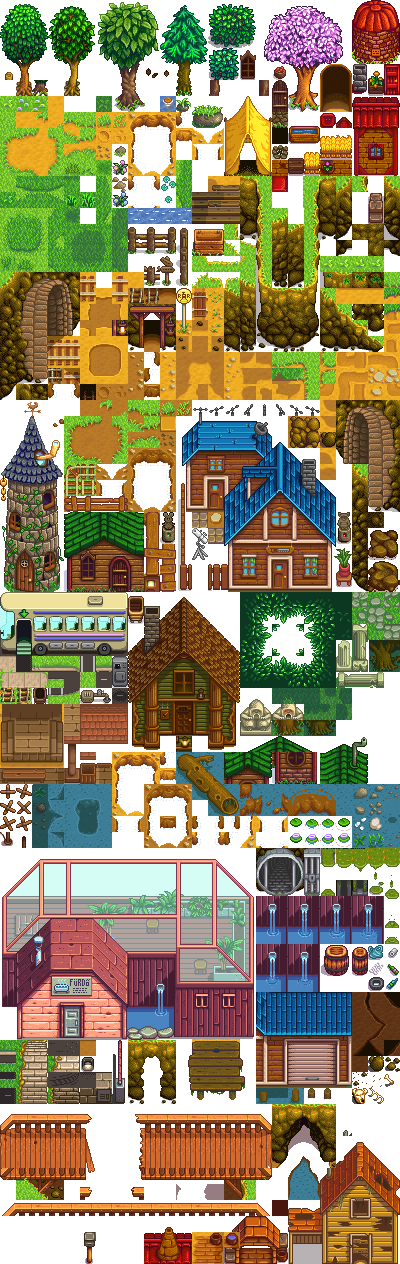
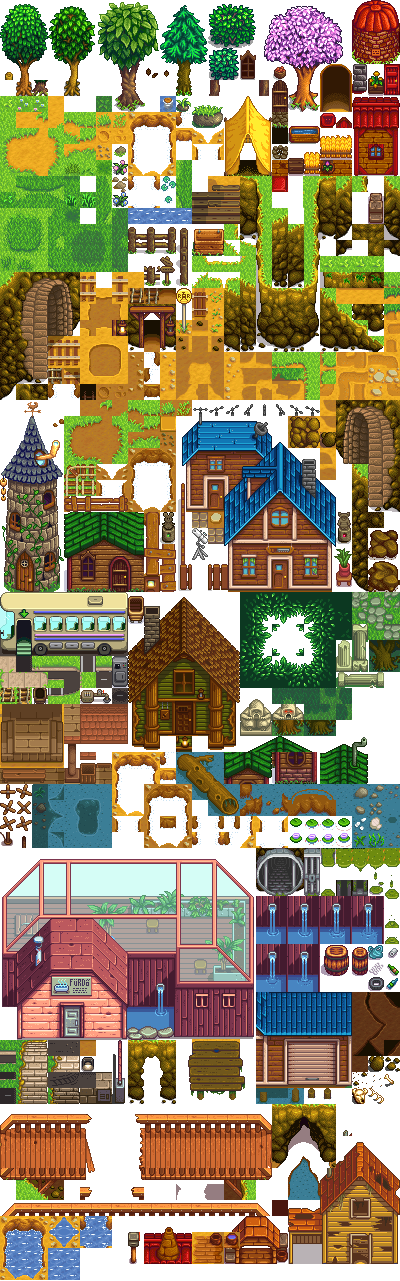
Ajout de l'auto tile de l'eau + ajout sprite

diff --git a/IUT-Valley/src/IHM/Vue/Cases/VueCaseEau.java b/IUT-Valley/src/IHM/Vue/Cases/VueCaseEau.java
@@ -5,8 +5,9 @@
  */
 package IHM.Vue.Cases;
 
+import Metier.Carte.Carte;
 import Metier.Carte.Cases.CaseEau;
-import Metier.Carte.Cases.CaseHerbe;
+import Metier.Carte.Direction;
 import javafx.geometry.Rectangle2D;
 import javafx.scene.image.ImageView;
 
@@ -18,9 +19,43 @@ public class VueCaseEau extends CaseVue{
     
     public VueCaseEau(CaseEau c,ImageView sprite){
         super();
-        sprite.setViewport(new Rectangle2D(96,832,14,14)); 
+        sprite.setViewport(new Rectangle2D(49,1249,16,16)); 
         /* if(Carte.getCarte().getCaseProche(c, Direction.Gauche).getCaseType().equals("herbe"))
             sprite.setViewport(new Rectangle2D(0,144,14,14)); ;*/
+        
+        
+        //terre angle haut droit
+        if((c.getVoisine(Direction.Gauche) != null) && (c.getVoisine(Direction.Gauche).getCaseType().equals("eau")) && (c.getVoisine(Direction.Haut) != null) && (c.getVoisine(Direction.Haut).getCaseType().equals("eau")) && (c.getVoisine(Direction.HautGauche) != null) && (c.getVoisine(Direction.HautGauche).getCaseType().equals("terre"))){
+             sprite.setViewport(new Rectangle2D(81,1217,16,16)); 
+        }      
+        //terre angle haut gauche
+        else if((c.getVoisine(Direction.Haut) != null) && (c.getVoisine(Direction.Haut).getCaseType().equals("eau")) && (c.getVoisine(Direction.Droit) != null) && (c.getVoisine(Direction.Droit).getCaseType().equals("eau")) && (c.getVoisine(Direction.HautDroit) != null) && (c.getVoisine(Direction.HautDroit).getCaseType().equals("terre"))){
+             sprite.setViewport(new Rectangle2D(95,1217,16,16));  
+        } 
+        // terre gauche, angle haut gauche, haut
+        else if((c.getVoisine(Direction.Gauche) != null) && (c.getVoisine(Direction.Gauche).getCaseType().equals("terre")) && (c.getVoisine(Direction.Haut) != null) && (c.getVoisine(Direction.Haut).getCaseType().equals("terre")) && (c.getVoisine(Direction.HautGauche) != null) && (c.getVoisine(Direction.HautGauche).getCaseType().equals("terre"))){
+             sprite.setViewport(new Rectangle2D(0,1217,16,16));  
+        } 
+        // terre droite, angle haut droit, haut
+        else if((c.getVoisine(Direction.Droit) != null) && (c.getVoisine(Direction.Droit).getCaseType().equals("terre")) && (c.getVoisine(Direction.Haut) != null) && (c.getVoisine(Direction.Haut).getCaseType().equals("terre")) && (c.getVoisine(Direction.HautDroit) != null) && (c.getVoisine(Direction.HautDroit).getCaseType().equals("terre"))){
+             sprite.setViewport(new Rectangle2D(32,1217,16,16));  
+        }
+        // terre gauche, angle bas gauche, bas, haut gauche
+        else if((c.getVoisine(Direction.Gauche) != null) && (c.getVoisine(Direction.Gauche).getCaseType().equals("terre")) && (c.getVoisine(Direction.Bas) != null) && (c.getVoisine(Direction.Bas).getCaseType().equals("terre")) && (c.getVoisine(Direction.BasGauche) != null) && (c.getVoisine(Direction.BasGauche).getCaseType().equals("terre")) && (c.getVoisine(Direction.HautGauche) != null) && (c.getVoisine(Direction.HautGauche).getCaseType().equals("terre"))){
+             sprite.setViewport(new Rectangle2D(0,1263,16,16));  
+        } 
+        // terre droite, angle bas droit, bas, haut droit
+        else if((c.getVoisine(Direction.Droit) != null) && (c.getVoisine(Direction.Droit).getCaseType().equals("terre")) && (c.getVoisine(Direction.Bas) != null) && (c.getVoisine(Direction.Bas).getCaseType().equals("terre")) && (c.getVoisine(Direction.BasDroit) != null) && (c.getVoisine(Direction.BasDroit).getCaseType().equals("terre"))&& (c.getVoisine(Direction.HautDroit) != null) && (c.getVoisine(Direction.HautDroit).getCaseType().equals("terre"))){
+             sprite.setViewport(new Rectangle2D(32,1263,16,16));  
+        }
+        // terre gauche, angle bas gauche, bas
+        else if((c.getVoisine(Direction.Gauche) != null) && (c.getVoisine(Direction.Gauche).getCaseType().equals("terre")) && (c.getVoisine(Direction.Bas) != null) && (c.getVoisine(Direction.Bas).getCaseType().equals("terre")) && (c.getVoisine(Direction.BasGauche) != null) && (c.getVoisine(Direction.BasGauche).getCaseType().equals("terre"))){
+             sprite.setViewport(new Rectangle2D(48,1231,16,16));  
+        } 
+        // terre droite, angle bas droit, bas
+        else if((c.getVoisine(Direction.Droit) != null) && (c.getVoisine(Direction.Droit).getCaseType().equals("terre")) && (c.getVoisine(Direction.Bas) != null) && (c.getVoisine(Direction.Bas).getCaseType().equals("terre")) && (c.getVoisine(Direction.BasDroit) != null) && (c.getVoisine(Direction.BasDroit).getCaseType().equals("terre"))){
+             sprite.setViewport(new Rectangle2D(64,1231,16,16));  
+        }
     }       
     
 }
